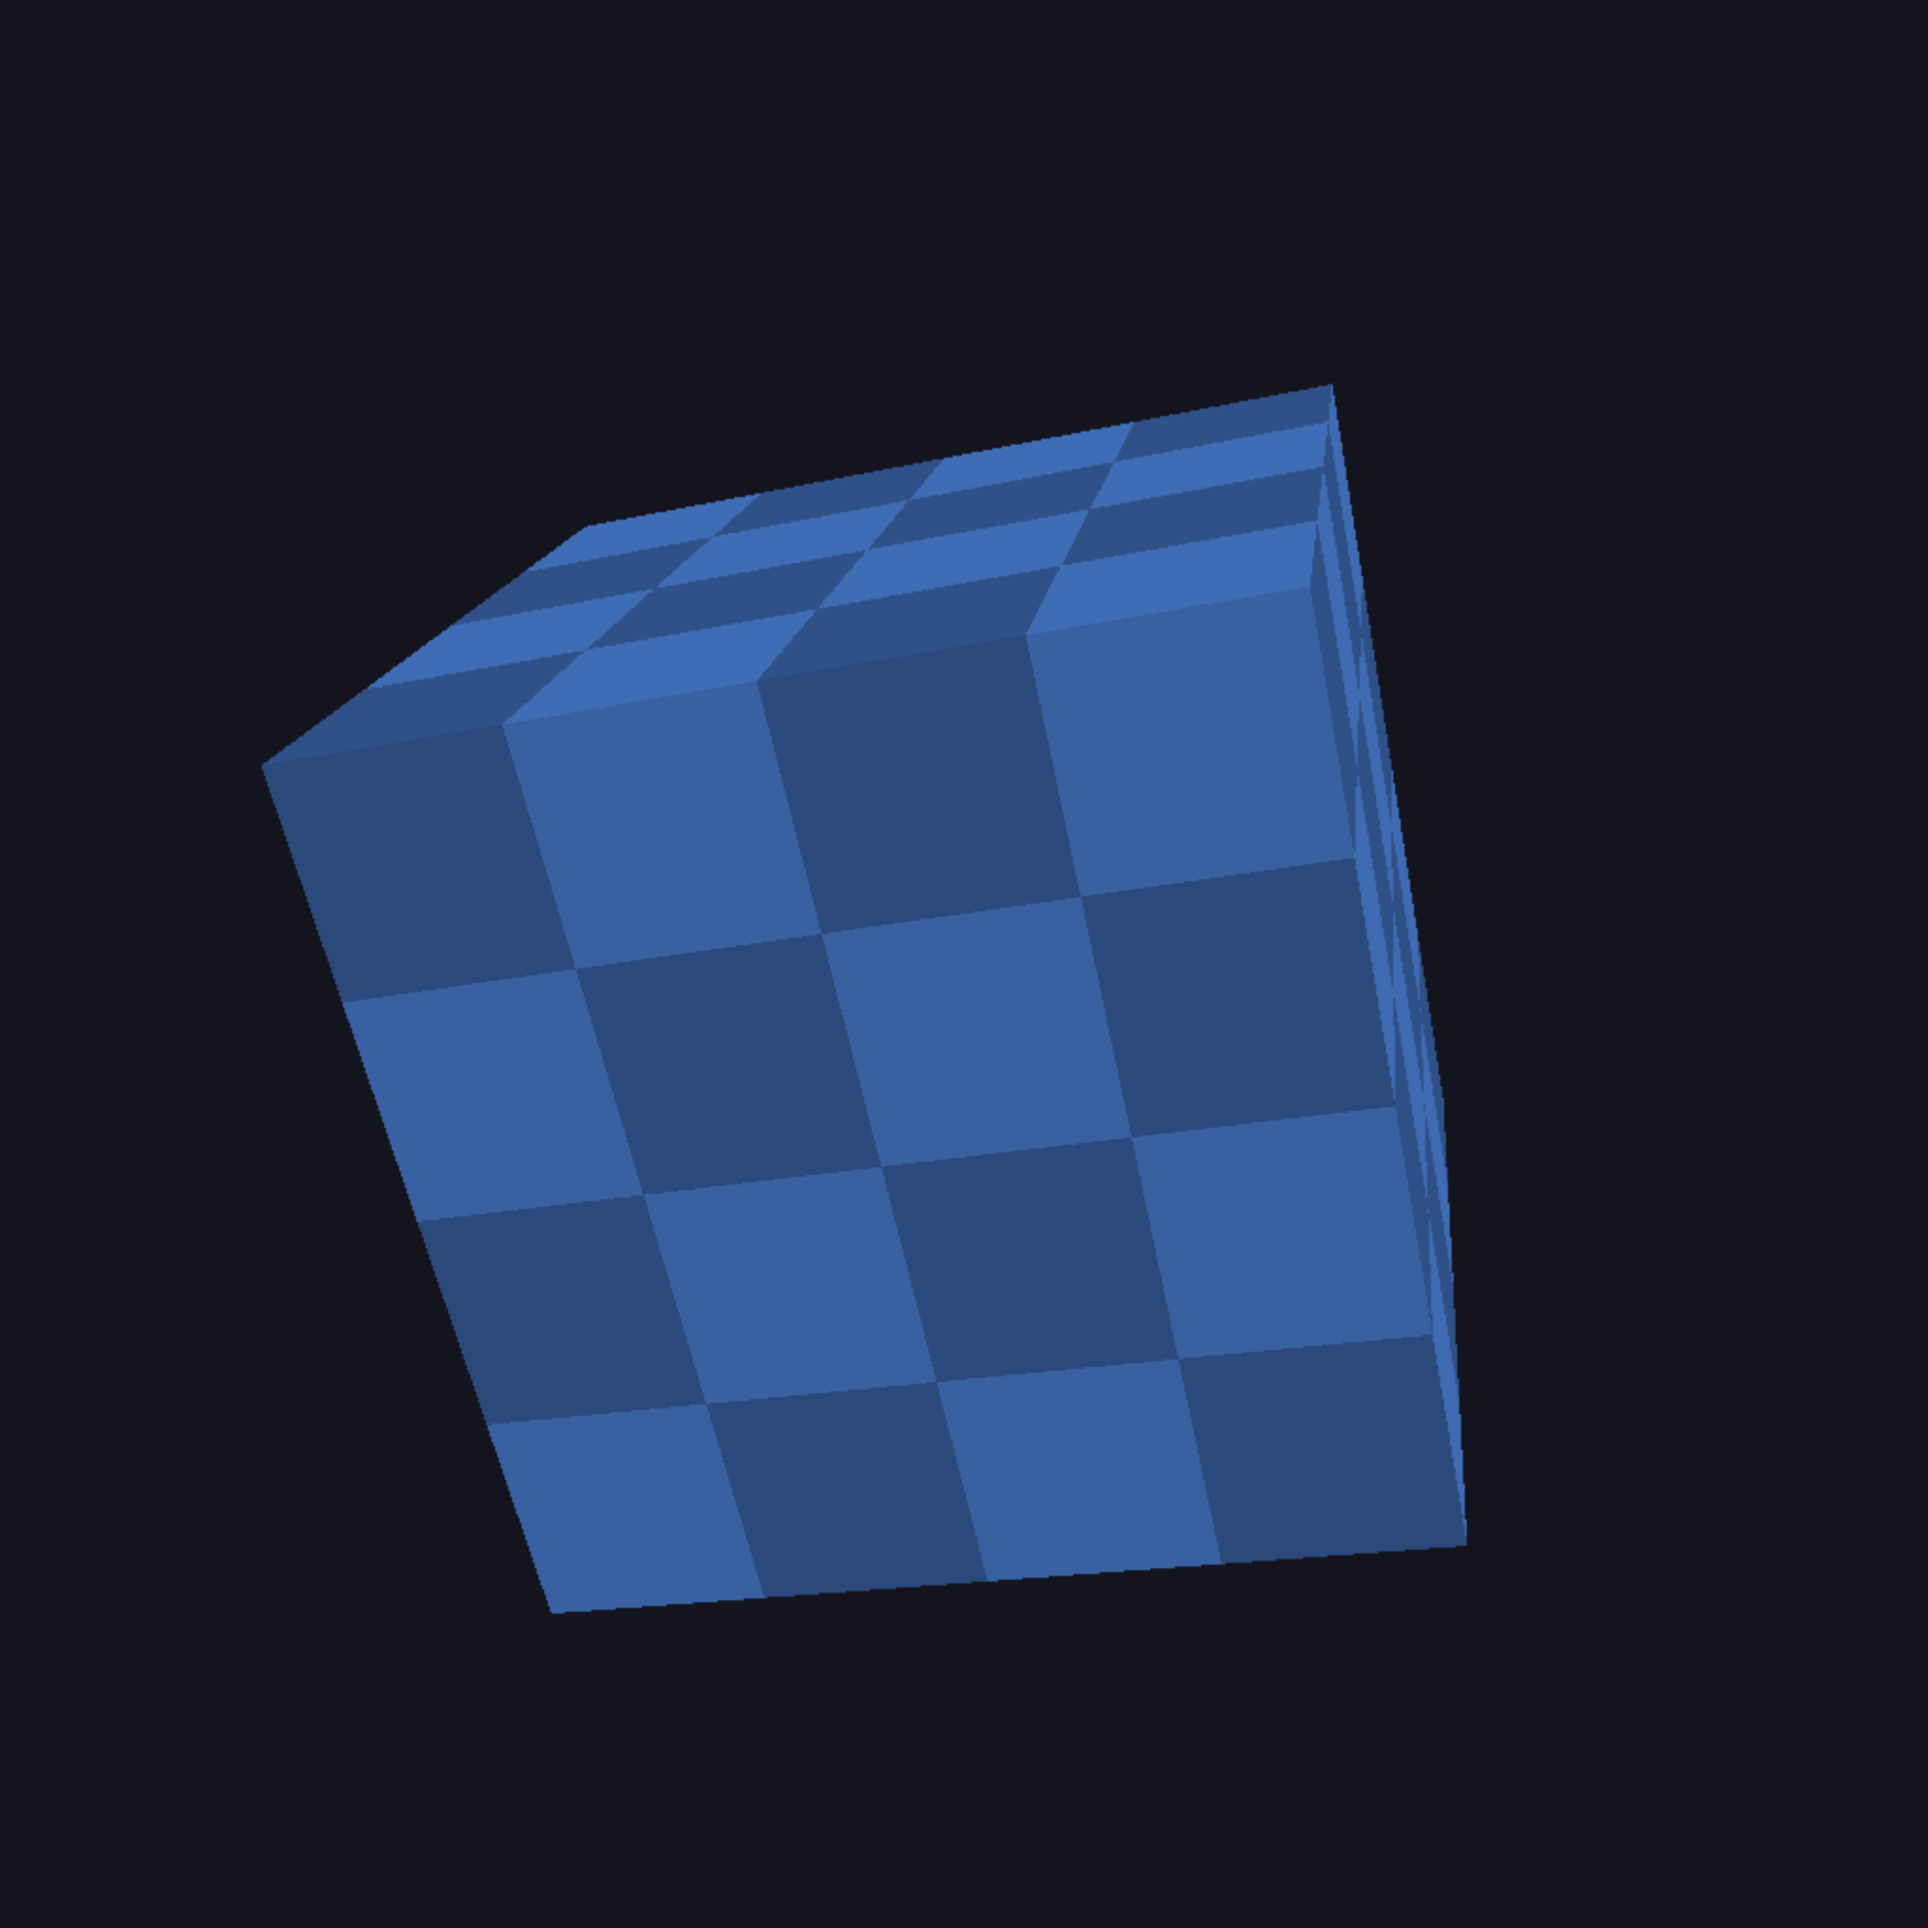
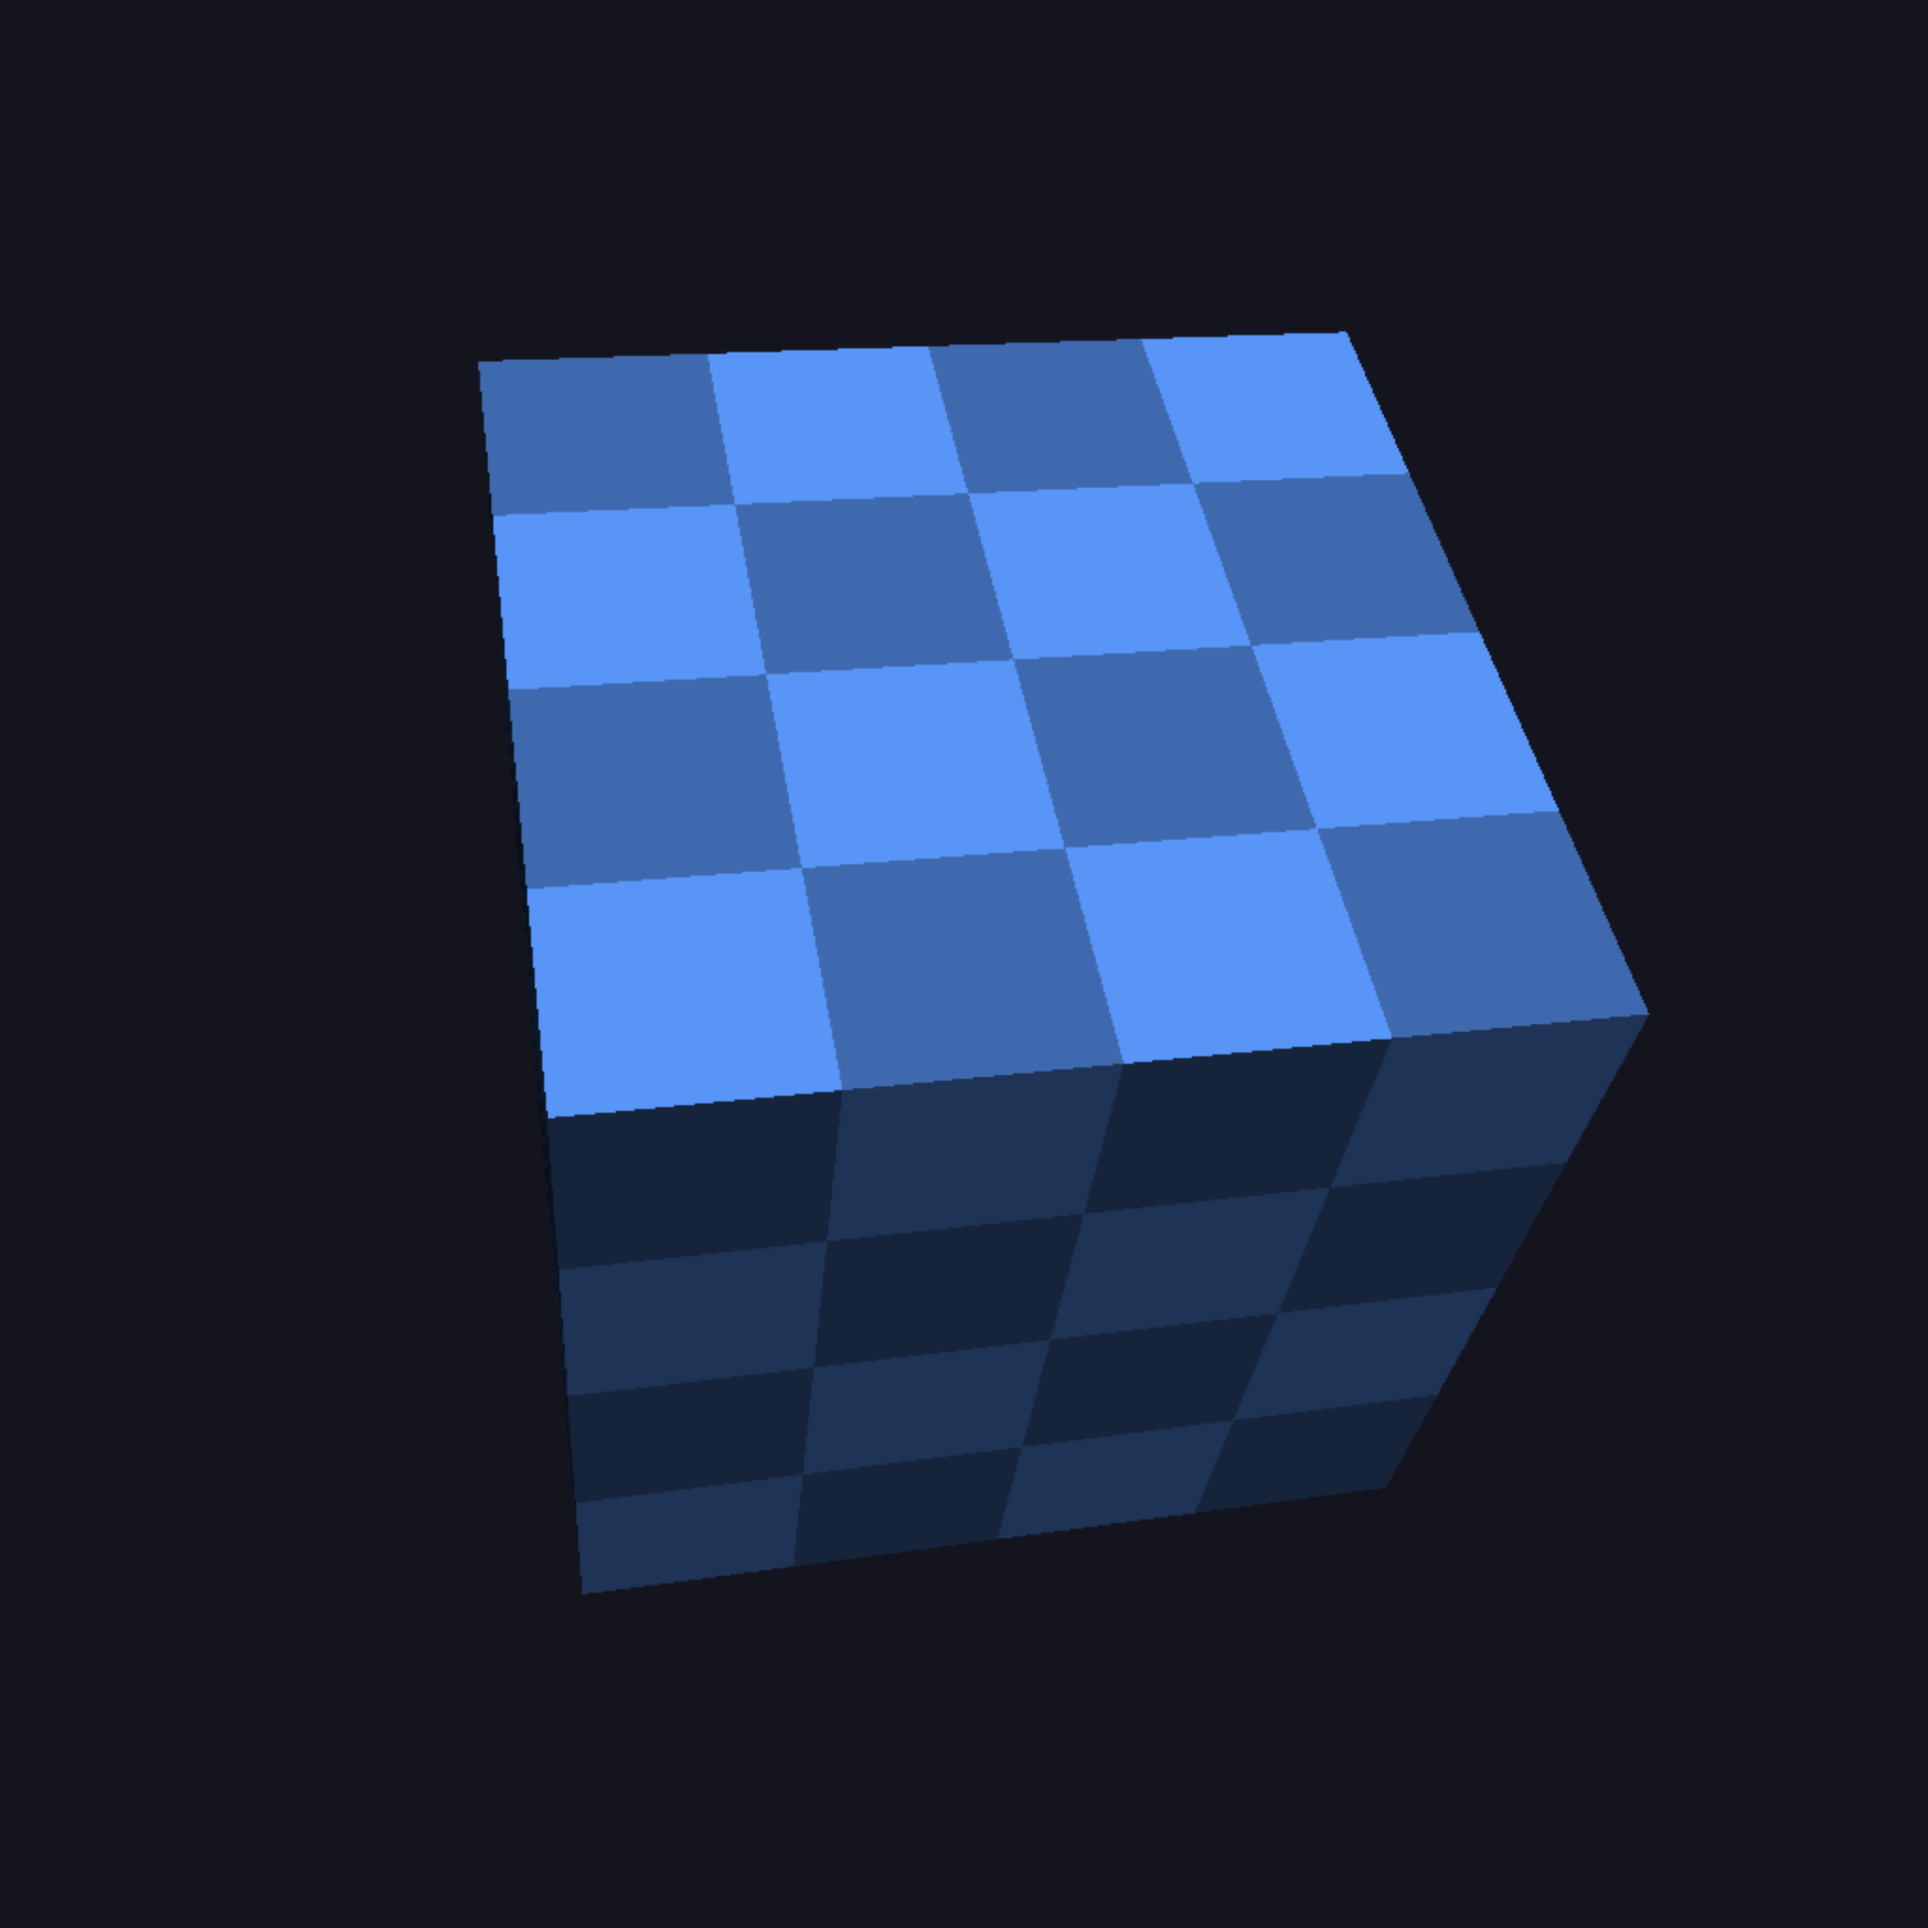
impr(docs): give the rotating cube a highlight and stronger shading
Claude-Session: https://claude.ai/code/session_013ni5QoJ1P6F8stBovje7Ye

diff --git a/apps/typegpu-docs/src/examples/simple/rotating-cube/index.ts b/apps/typegpu-docs/src/examples/simple/rotating-cube/index.ts
@@ -102,10 +102,13 @@ const pipeline = root.createRenderPipeline({
     'use gpu';
     const n = std.normalize(worldNormal);
     const diffuse = std.max(std.dot(n, lightDirection), 0);
+    // A cheap highlight: how well the normal points between the light and the camera.
+    const halfVector = std.normalize(lightDirection + d.vec3f(0, 0.4, 1));
+    const specular = std.pow(std.max(std.dot(n, halfVector), 0), 32) * 0.4;
     // A checkerboard from the UVs, so the faces are easy to tell apart.
     const cell = std.floor(uv * 4);
-    const checker = std.select(0.75, 1, (cell.x + cell.y) % 2 === 0);
-    const color = colorUniform.$ * checker * (0.25 + 0.75 * diffuse);
+    const checker = std.select(0.7, 1, (cell.x + cell.y) % 2 === 0);
+    const color = colorUniform.$ * checker * (0.15 + 0.85 * diffuse) + specular;
     return d.vec4f(color, 1);
   },
   primitive: { cullMode: 'back' },
